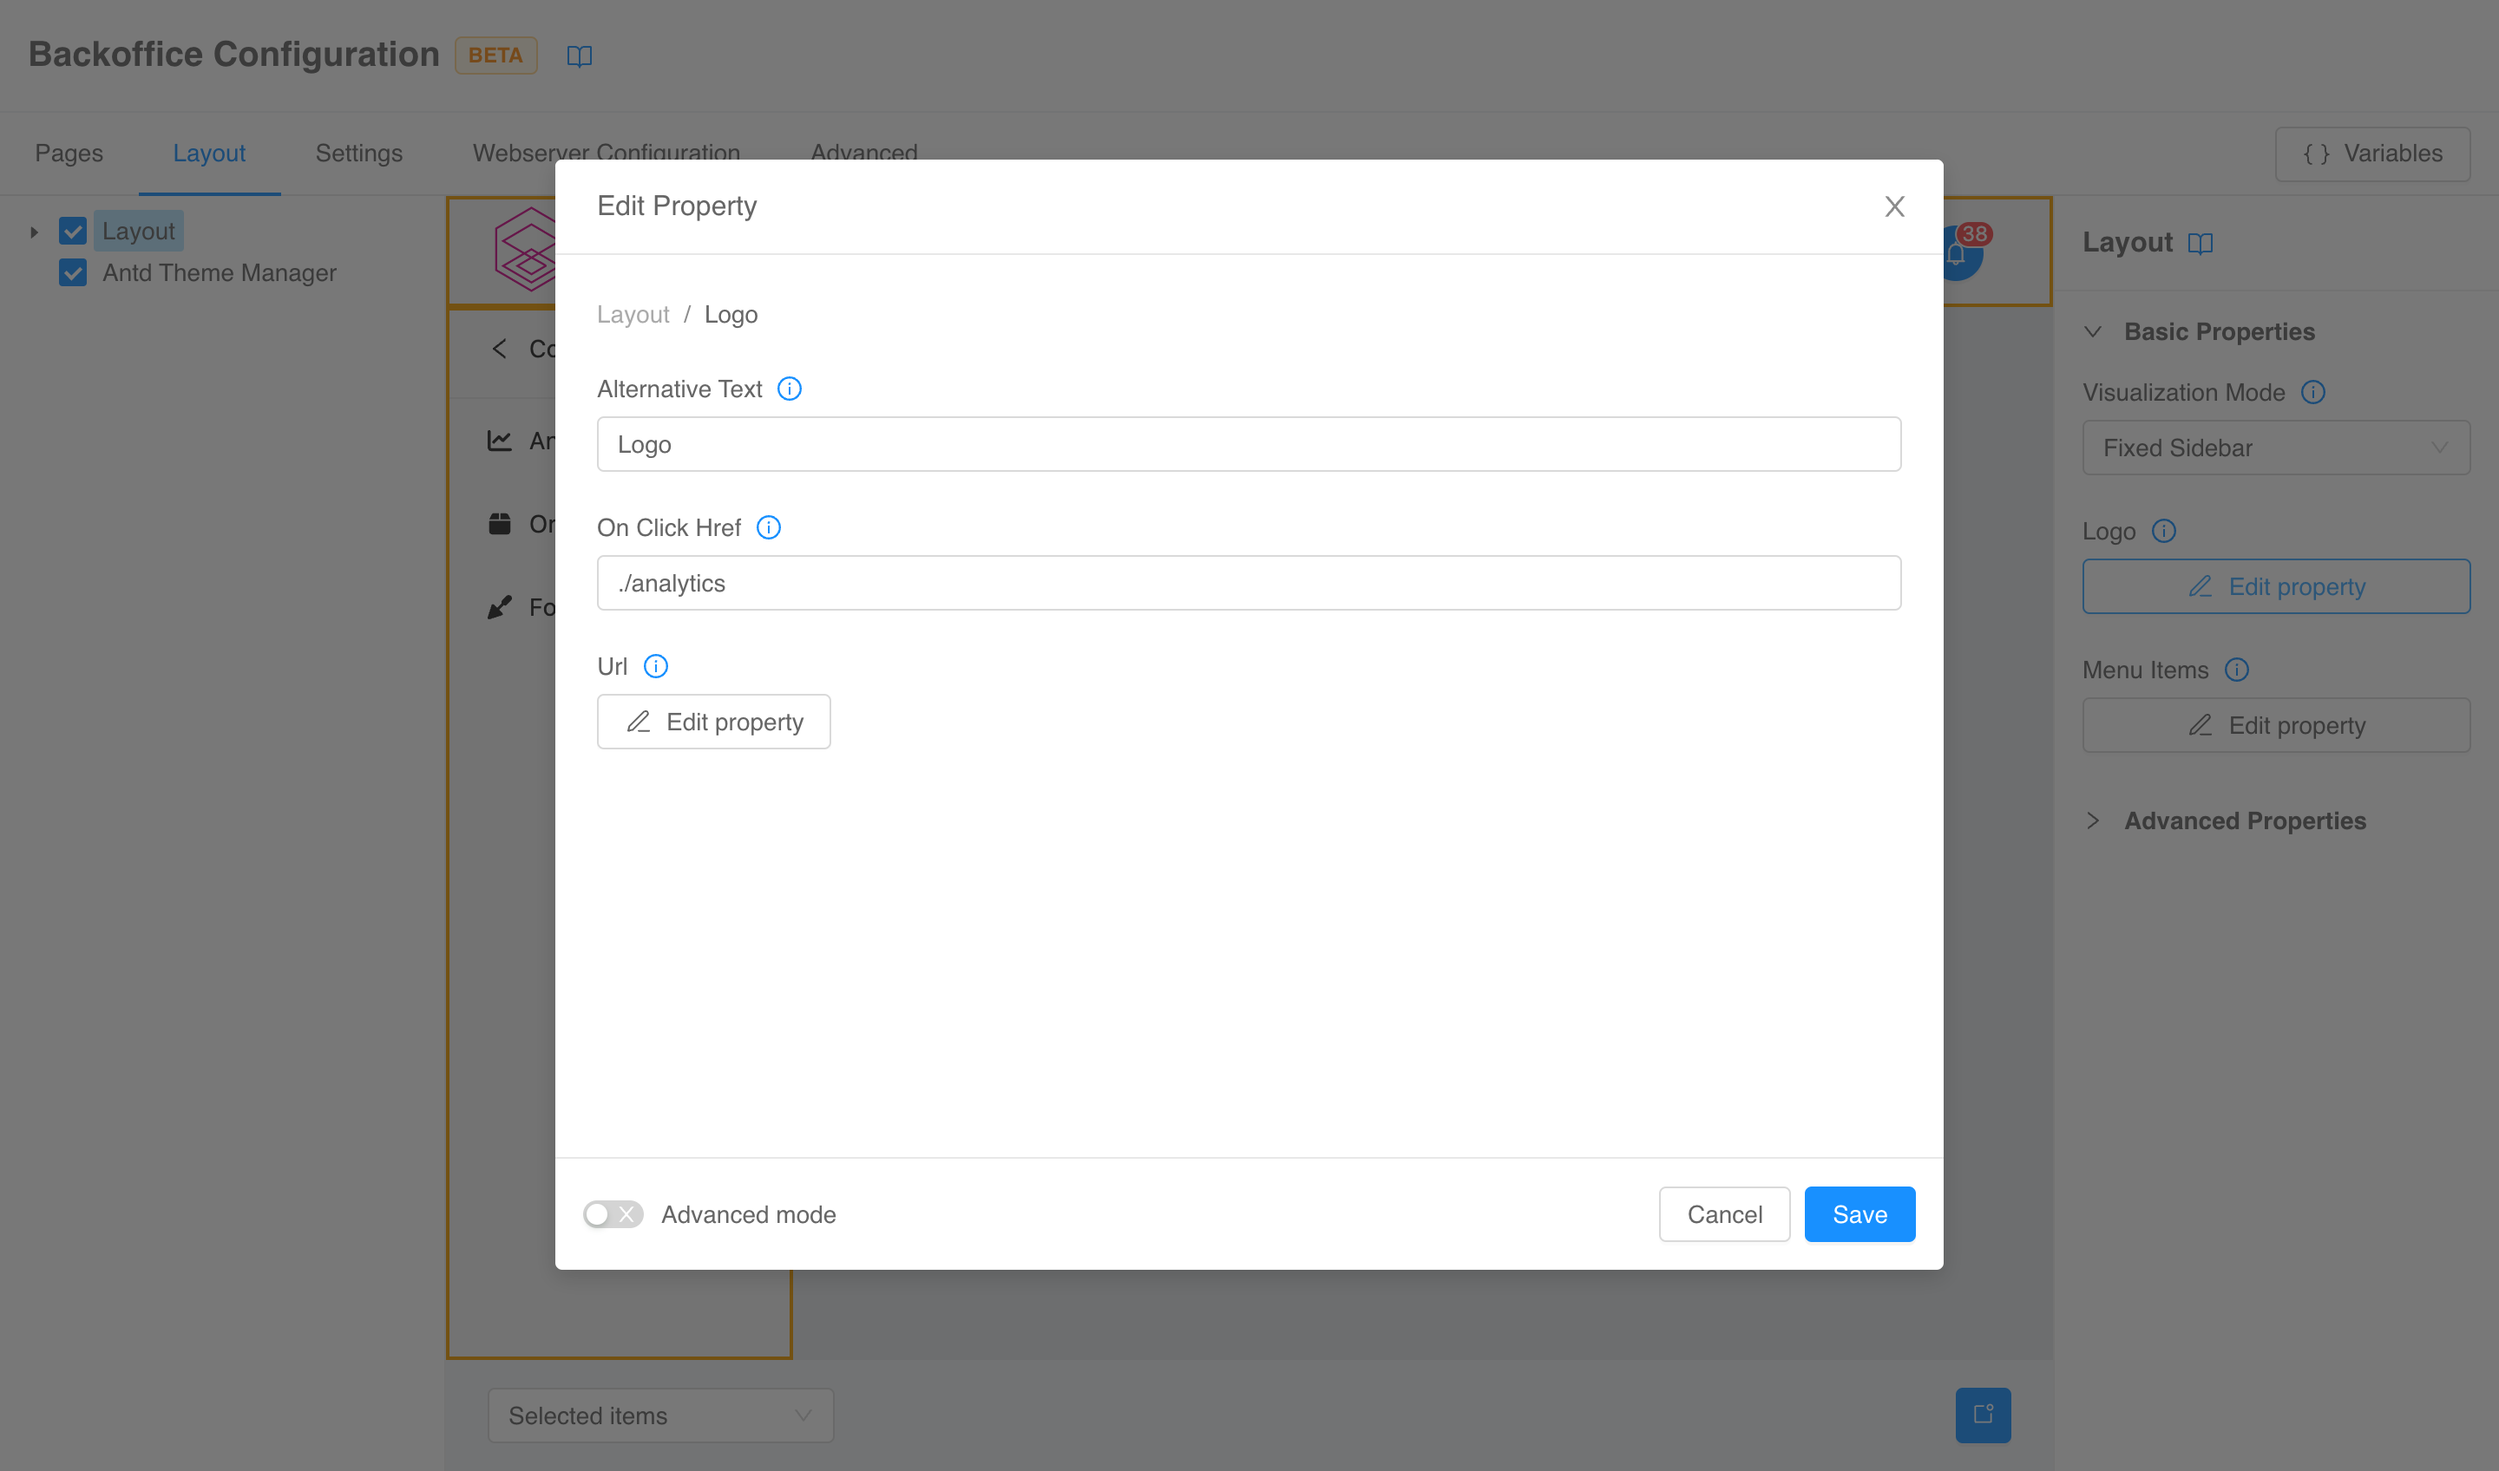
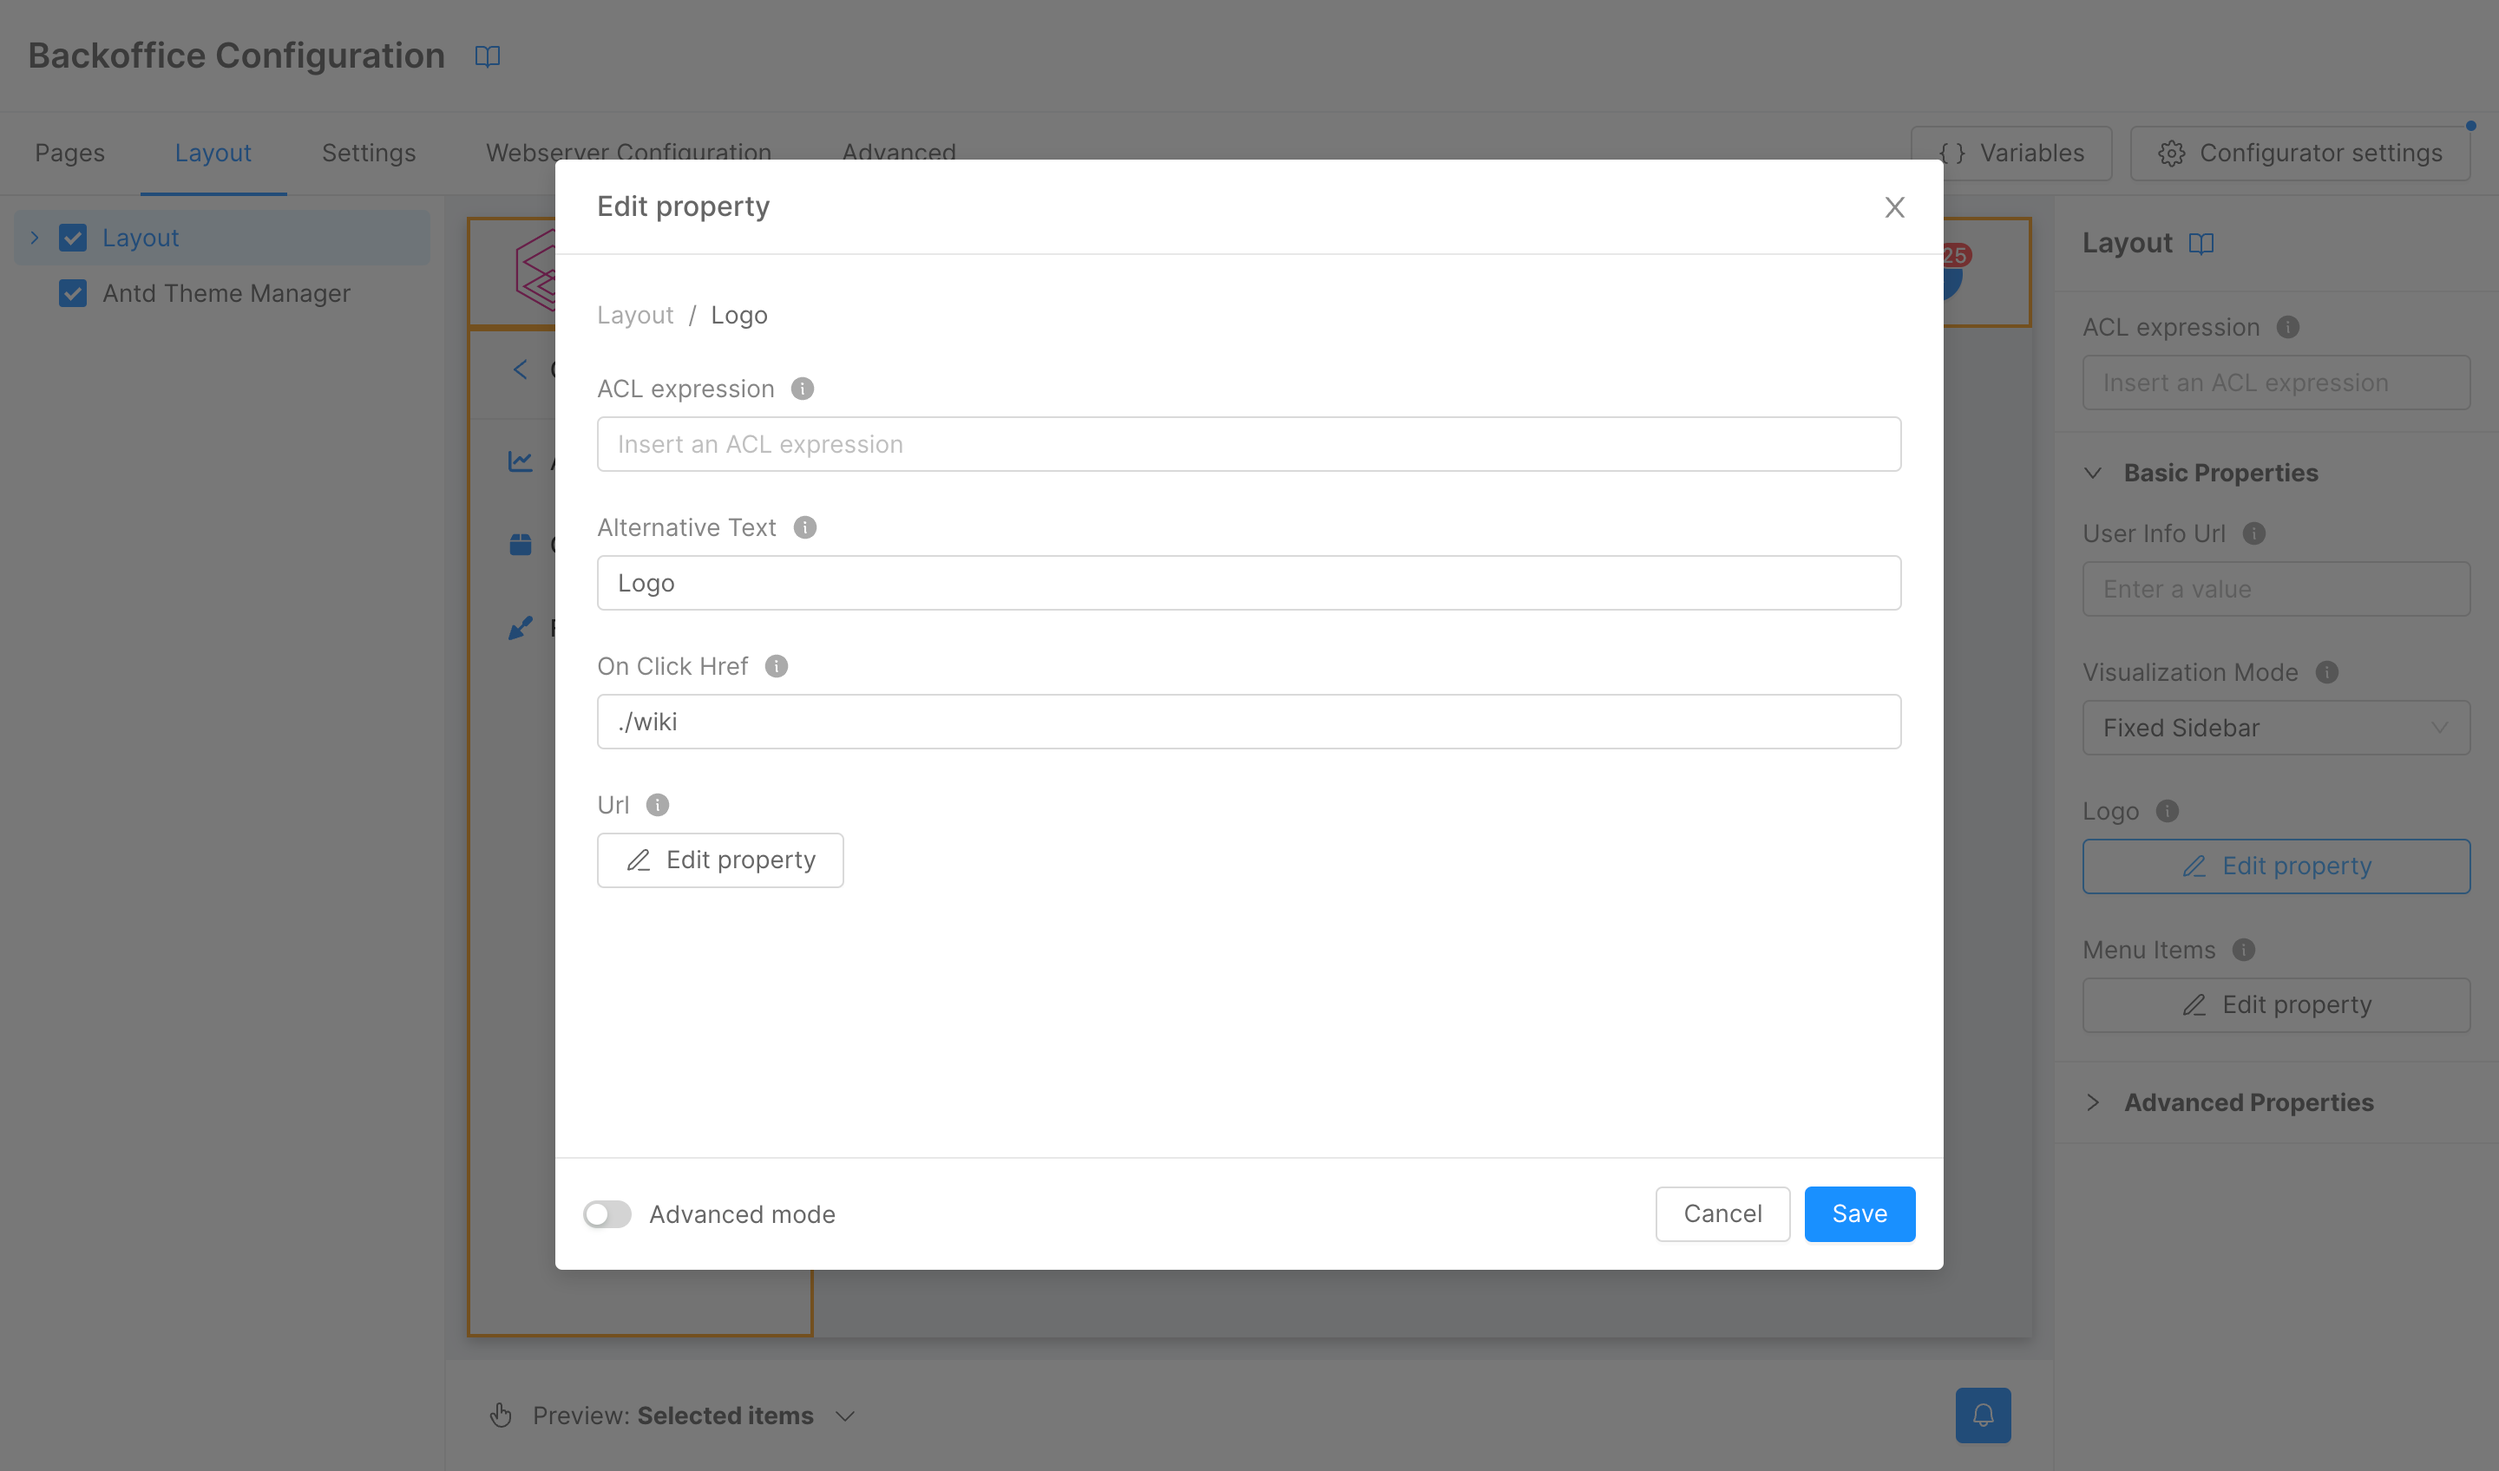
chore(docs): update Backoffice Configurator documentation

diff --git a/docs/business_suite/backoffice-configurator/20_structure.md b/docs/business_suite/backoffice-configurator/20_structure.md
@@ -177,6 +177,29 @@ Modals have the option to turn on an **Advanced mode** that will make available 
 ![Right menu modal advanced mode](img/structure_layout-right-menu-modal-advanced.png)
 :::tip
 
+#### ACL expression
+
+Components will also have a special property called `aclExpression`, which can be used to [control](https://micro-lc.io/add-ons/backend/middleware#acl-application) whether certain portions of the configuration are removed based on a logical expression evaluated against user's groups and permissions.
+
+The property is configurable at two levels.
+
+- On a **component level** from the properties form itself to limit the presence of the whole component definition. 
+  
+  For example, with the following configuration
+
+  ![ACL component](img/structure_layout-acl-component.png)
+
+  the layout component will not be included if the configuration is not fetched by a user with the _admin_ group.
+
+- On a **property level** for all the properties (and sub-properties) of type `object`. 
+  
+  For example, with the following configuration
+  
+  ![ACL property](img/structure_layout-acl-property.png)
+
+  the property `logo` of the layout will not be included if the configuration is not fetched by a user with the _admin_ group.
+
+
 ## Settings
 
 The _Settings_ tab collects several Backoffice global settings. The default configurations in most cases should be sufficient,

diff --git a/docs/business_suite/backoffice-configurator/50_faqs.md b/docs/business_suite/backoffice-configurator/50_faqs.md
@@ -5,7 +5,7 @@ sidebar_label: Faqs
 ---
 ## Components
 
-## How can I add a new page to and show it in the navigation menu?
+### How can I add a new page and show it in the navigation menu?
 
 :::caution
 The information regarding the menu are valid only if you are using the
@@ -54,6 +54,17 @@ A modal will open with a code editor you can use to edit the property. Now you j
 [official documentation](/business_suite/backoffice/30_page_layout.md#data-schema).
 
 Once you have done, click the _Save_ button. The modal will close, and the table will display the new column.
+
+
+### How can I change parts of the configuration based on user's groups and permissions?
+
+Backoffice [suppports](https://micro-lc.io/add-ons/backend/middleware#acl-application) the usage of ACL expressions in configurations to omit sections based on logical expressions evaluated against user's groups and permissions.
+
+:::info
+An ALC expression is a combination of groups, permissions and JavaScript operators like `groups.admin && permissions.api.users.get`.
+:::
+
+ACL expressions can be [added](./20_structure.md#acl-expression) to each object in the configurations regardless of the nesting level. If an object has the special property `aclExpression`, the server will evaluate it and remove the object altogether in case of a *falsy* outcome.
 
 ### How can I use an Angular micro-frontend as parcel?
 

diff --git a/docs/business_suite/backoffice-configurator/changelog.md b/docs/business_suite/backoffice-configurator/changelog.md
@@ -3,6 +3,18 @@ id: changelog
 title: Changelog
 sidebar_label: CHANGELOG
 ---
+## [1.4.0] - 2023-10-06
+
+### Added
+
+- Added support for `aclExpression` property of components and components object properties
+
+### Versioning
+
+- `BACK_KIT_VERSION` to `1.4.1`
+- `MICRO_LC_ORCHESTRATOR_VERSION` to `2.2.1`
+- Dev dependencies updated
+
 ## [1.3.4] - 2023-09-25
 
 ### Fixed
